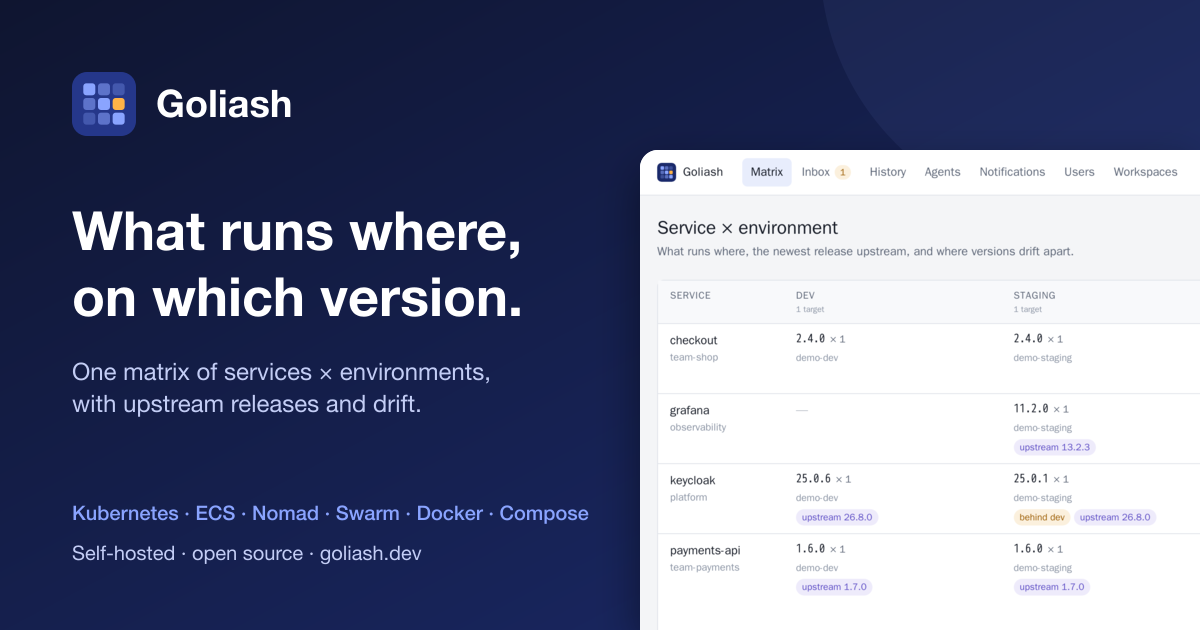
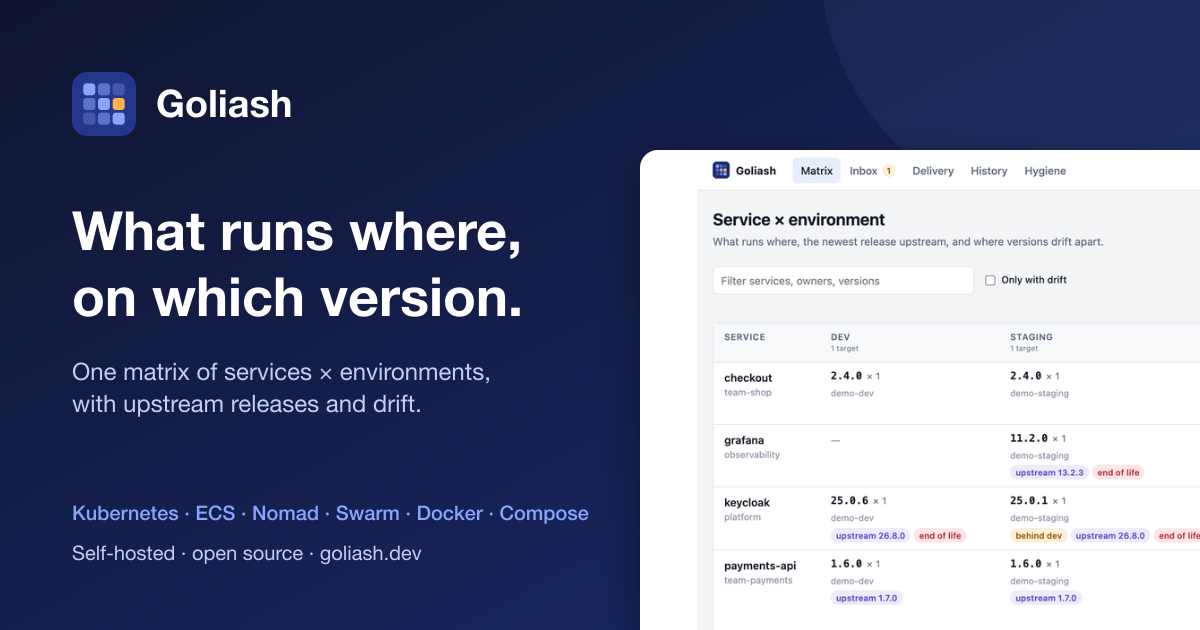
docs: new screenshots and menu names
Fresh screenshots of the matrix, a service page, Delivery and the phone
layout, taken with live data and the new header; the sharing image uses
the new matrix. README and docs name pages as the menus do now
(Settings → Agents and targets, Users and API tokens, Time travel).

diff --git a/README.md b/README.md
@@ -73,7 +73,7 @@ docker compose exec goliash goliash demo                            # optional: 
 docker compose exec goliash goliash login-link -email you@example.com
 ```
 
-Open the printed link. In **Agents**, add environments, an agent (copy its token) and targets, then run the agent
+Open the printed link. In **Settings → Agents and targets**, add environments, an agent (copy its token) and targets, then run the agent
 where it can reach your orchestrator:
 
 ```sh
@@ -126,14 +126,17 @@ and updates live over server-sent events.
 
 | Page | What it is for |
 | --- | --- |
-| Matrix | service × environment with versions, replicas, targets, drift badges and the latest upstream; "as of" a past time; CSV export |
-| Service | where it runs, upstream releases, history, version policy, acknowledgements, "check upstream now" |
-| Inbox | unmapped workloads with a suggested name; mapping creates a rule for that image |
+| Matrix | service × environment with versions, replicas, targets, drift badges and the latest upstream; filter (`/`) and "only with drift"; time travel to a past moment; CSV export; cards on phones; a first-run checklist when empty |
+| Service | where it runs, upstream releases, history, version policy, acknowledgements, "check upstream now"; delete once it runs nowhere |
+| Inbox | unmapped workloads with a suggested name; mapping creates a rule for that image; the list of mapping rules |
+| Hygiene | moving tags, tags pushed again, untrusted registries and images without a digest, summarised by kind |
 | Delivery | versions waiting for the next environment with the releases they bring; deploys and lead times per environment; a printable monthly report per workspace |
 | History | every event, filterable by service, environment and type |
-| Agents | agents and targets with collector health; add agents with install commands, rotate or revoke tokens, rename and delete agents, move or delete targets |
-| Notifications | channels (with a test button) and rules |
-| Users | invite people, change roles, sign-in links, API tokens (admins) |
+| Settings → Agents and targets | agents and targets with collector health; environments (rename, reorder); edit targets; add agents with install commands, rotate or revoke tokens, rename and delete agents, move or delete targets |
+| Settings → Notifications | channels (test, edit, delete) and rules (pause, delete) |
+| Settings → Users and API tokens | invite people, change roles, sign-in links, sign out, remove passwords, API tokens with roles and expiry, the audit log (admins) |
+| Settings → Workspaces | one workspace per team or client (organization admins) |
+| Account (your avatar) | name, password, and every browser you are signed in on |
 
 ### Sign-in, API and metrics
 
@@ -154,7 +157,7 @@ bin/goliash token create -name prometheus           # glsh_api_… for /api/v1, 
 - Set `GOLIASH_PUBLIC_URL` to the address people use; with `https://` cookies are marked Secure.
 - **Roles**: viewer reads; member maps services, edits policies and acks; admin manages agents, targets, channels,
   tokens and users; owner can do everything. Viewer, member and admin are per workspace; admin and owner of the
-  organization reach every workspace. Organization admins change roles on the Users page; only owners grant or
+  organization reach every workspace. Organization admins change roles under Settings → Users and API tokens; only owners grant or
   take the owner role, and the last owner cannot be removed.
 - **REST API** (session or `Authorization: Bearer glsh_api_…`): `GET /api/v1/matrix`, `/services`, `/environments`,
   `/targets`, `/events?service=&environment=&type=&before=&limit=`, `/drifts`; `POST /api/v1/acks`. The OpenAPI
@@ -212,7 +215,7 @@ bin/goliash rule create -match image_repo -pattern 'ghcr\.io/acme/pay.*' -servic
 - **Stale data:** a target whose agent stopped sending heartbeats, or without a snapshot for three poll intervals
   (at least 15 minutes), is marked "stale data" in the matrix.
 - **Audit log:** every change to configuration, tokens and roles (UI, API, CLI) and every sign-in is recorded and
-  shown to admins on the Users page.
+  shown to admins under Settings → Users and API tokens.
 
 ### Workspaces (MSPs, teams)
 

diff --git a/website/src/content/docs/guide/teams.md b/website/src/content/docs/guide/teams.md
@@ -5,7 +5,7 @@ description: 'Sign in with passwords, links or OIDC, roles per workspace, API to
 
 ## Signing in
 
-- **Passwords.** Everyone may set a password on their account page (click your e-mail in the top bar), or an admin
+- **Passwords.** Everyone may set a password on their account page (the avatar in the top bar → Your account), or an admin
   runs `goliash user password -email you@example.com`. Forgot it? Sign in with a link and set a new one: for 15
   minutes after a link or single sign-on, the current password is not asked for.
 - **Magic links.** `goliash login-link -email you@example.com` prints a one-time link. The first person becomes the
@@ -39,7 +39,7 @@ Keep `/data` on a volume: it holds the database and `goliash.key`.
 ## Sessions
 
 The account page lists every browser you are signed in on, with its address and when it was last used; sign any of
-them out, or all but this one. Changing your password signs out the others. On the Users page admins sign a person
+them out, or all but this one. Changing your password signs out the others. On **Settings → Users and API tokens** admins sign a person
 out everywhere or remove their password (when it leaked: they sign in with a link and choose a new one).
 
 ## Roles
@@ -54,7 +54,7 @@ out everywhere or remove their password (when it leaked: they sign in with a lin
 Viewer, member and admin are granted **per workspace**. Admin and owner can also be granted for the whole
 **organization**: they then reach every workspace.
 
-Organization admins change roles on the Users page. Only owners grant or take the owner role, the last owner cannot
+Organization admins change roles on **Settings → Users and API tokens**. Only owners grant or take the owner role, the last owner cannot
 be removed, and nobody changes their own role. Every change is recorded in the audit log.
 
 ## Workspaces
@@ -77,12 +77,12 @@ Every CLI command takes `-workspace` (or `GOLIASH_WORKSPACE`); without it, it wo
 ## API tokens
 
 API tokens (`glsh_api_…`) belong to one workspace. A **viewer** token (the default) reads everything; a **member**
-token can also acknowledge. A token may expire after 30, 90 or 365 days, or never. Create them on the Users page or
-with `goliash token create -name prometheus [-role member] [-expires 90d]`; the token is shown once. The Users page
+token can also acknowledge. A token may expire after 30, 90 or 365 days, or never. Create them on **Settings → Users and API tokens** or
+with `goliash token create -name prometheus [-role member] [-expires 90d]`; the token is shown once. **Settings → Users and API tokens**
 lists every token with who created it and when it was last used, and revokes one at once (`goliash token revoke
 -name prometheus`). Things done with a token show its name in the audit log and on acknowledgements.
 
 ## Audit log
 
 Every change to configuration, tokens and roles, from the UI, the API or the CLI, and every sign-in is recorded.
-Admins see the log on the Users page. Secrets never appear in it.
+Admins see the log on **Settings → Users and API tokens**. Secrets never appear in it.

diff --git a/website/src/content/docs/guide/matrix.md b/website/src/content/docs/guide/matrix.md
@@ -14,6 +14,11 @@ its owner, a version, a target or a badge, so `team-payments end` finds that tea
 release. **Only with drift** hides the rest. The filter is part of the address, so a filtered matrix can be
 bookmarked or shared. **Time travel** shows the matrix as of a past moment; **Export CSV** downloads the inventory.
 
+<img src="/screenshots/mobile.png" width="260" align="right" alt="The matrix on a phone: one card per service with its versions per environment" style="margin: 0 0 1rem 1.5rem; border-radius: 12px; border: 1px solid var(--sl-color-gray-5)" />
+
+On a phone the matrix turns into one card per service, with each environment as a row inside it, so nothing scrolls
+sideways. The same filter and drift switch work there.
+
 Badges in a cell:
 
 | Badge | Meaning |
@@ -27,7 +32,7 @@ During a rollout, both versions show with their replica counts. The matrix updat
 
 ## Looking back, and exporting for audits
 
-Pick a date and time in **As of** above the matrix to see what ran then: "what was in prod on 12 September at
+Open **Time travel** above the matrix and pick a date and time to see what ran then: "what was in prod on 12 September at
 14:00?". Goliash keeps when each version ran for 400 days, so the answer is right even after versions moved on and
 back. Drift and upstream releases describe now, so they are not shown for the past.
 

diff --git a/website/src/content/docs/guide/versions.md b/website/src/content/docs/guide/versions.md
@@ -16,6 +16,8 @@ containers run. It lists that repository's tags and keeps the newest versions th
 New services are checked within a minute, then every hour. **Check upstream now** on a service page, or
 `goliash check`, checks at once.
 
+![A service page: versions running per environment with drift and end-of-life badges, and the upstream releases with their release notes](../../../assets/service.png)
+
 ## Version policy
 
 A policy decides which tags count as versions and which differences are worth an alert. Set it on the service
@@ -102,6 +104,8 @@ marked *declared*.
 When the drift ends, a `drift_resolved` event follows.
 
 ## Promotions and delivery
+
+![The Delivery page: versions waiting for promotion with the releases they bring, and versions per environment with lead times over the last 30 days](../../../assets/delivery.png)
 
 The **Delivery** page lists every version that runs in one environment and waits for the next, longest waiting
 first, with the releases a promotion would bring and their release notes. It is the list to go through before a

diff --git a/website/src/content/docs/install/index.md b/website/src/content/docs/install/index.md
@@ -36,7 +36,7 @@ See [Security](/security/#verify-a-release) for how to verify them.
 
 ## Managing agents
 
-Create an agent on the **Agents** page (or `goliash agent create -name prod-eu`). Its page shows the token once,
+Create an agent under **Settings → Agents and targets** (or `goliash agent create -name prod-eu`). Its page shows the token once,
 with commands to start the agent on a Docker host, Kubernetes, Nomad or as a binary, and then:
 
 - **Status**: online, stale (missed heartbeats), never connected or revoked, its version (with *update available*

diff --git a/website/src/content/docs/install/kubernetes.md b/website/src/content/docs/install/kubernetes.md
@@ -39,7 +39,7 @@ which gives the server a read-only ClusterRole, and create a `kubernetes` target
 
 ## Agent
 
-Create the agent in the UI (**Agents → Add an agent**) or with `goliash agent create -name prod-eu`, and keep the
+Create the agent in the UI (**Settings → Agents and targets → Add an agent**) or with `goliash agent create -name prod-eu`, and keep the
 token in a secret:
 
 ```sh
